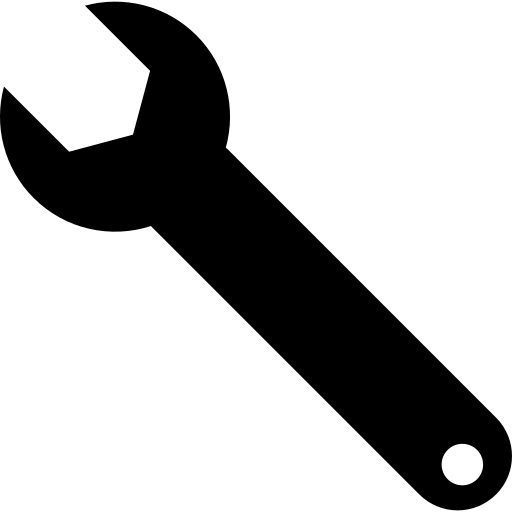
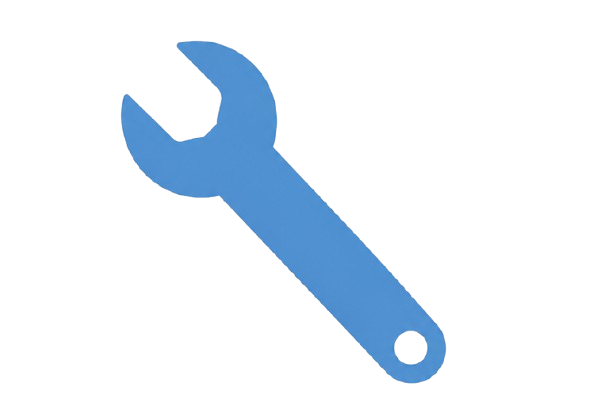
Refactoring payment flow check

diff --git a/apps/api/src/modules/payments/payments.service.ts b/apps/api/src/modules/payments/payments.service.ts
@@ -14,7 +14,6 @@ import { LedgerService } from "../wallet/ledger.service";
 import { PAYSTACK_PROVIDER } from "./payments.constants";
 import { PaystackProvider } from "./paystack/paystack.provider";
 import { ModuleRef } from "@nestjs/core";
-import { JobPaymentProcessorService } from "../job-payments/job-payment-processor.service";
 
 @Injectable()
 export class PaymentsService {
@@ -27,7 +26,6 @@ export class PaymentsService {
     private readonly ledgerService: LedgerService,
     private readonly notifications: NotificationsService,
     private readonly moduleRef: ModuleRef,
-    private readonly jobPaymentProcessor: JobPaymentProcessorService,
   ) {}
 
   async initializeDeposit(userId: string, amountMilliFec: number) {
@@ -373,12 +371,7 @@ if (
   result.paymentType === "JOB_PAYMENT" &&
   "jobPaymentId" in result &&
   typeof result.jobPaymentId === "string"
-) {
-  await this.jobPaymentProcessor.handleSuccessfulPayment(
-    result.jobPaymentId,
-  );
-}
-
+) 
 return result;
   }
 }

diff --git a/apps/api/src/modules/jobs/jobs.service.spec.ts b/apps/api/src/modules/jobs/jobs.service.spec.ts
@@ -7,6 +7,7 @@ import { WalletService } from "../wallet/wallet.service";
 import { NotificationsService } from "../notifications/notifications.service";
 import { PlatformWalletService } from "../wallet/platform-wallet.service";
 import { PrismaService } from "../../infra/prisma/prisma.service";
+import { JobPaymentsService } from "../job-payments/job-payments.service";
 
 describe("JobsService", () => {
   let service: JobsService;
@@ -40,6 +41,13 @@ describe("JobsService", () => {
             rejectCompletionRequest: jest.fn(async () => ({ ok: true, status: "REJECTED" })),
           },
         },
+        {
+  provide: JobPaymentsService,
+  useValue: {
+    createPostingPayment: jest.fn(),
+    createUrgentHirePayment: jest.fn(),
+  },
+},
         {
           provide: LedgerService,
           useValue: {

diff --git a/apps/api/src/modules/job-payments/job-payments.service.ts b/apps/api/src/modules/job-payments/job-payments.service.ts
@@ -1,7 +1,6 @@
 //path: apps/api/src/modules/job-payments/job-payments.service.ts
 import { Inject, Injectable } from "@nestjs/common";
 import { PrismaService } from "../../infra/prisma/prisma.service";
-import { PaymentsService } from "../payments/payments.service";
 import { NotificationsService } from "../notifications/notifications.service";
 import { PAYSTACK_PROVIDER } from "../payments/payments.constants";
 import { PaystackProvider } from "../payments/paystack/paystack.provider";
@@ -15,7 +14,6 @@ export class JobPaymentsService {
     private readonly paystack: PaystackProvider,
 
     private readonly prisma: PrismaService,
-    private readonly paymentsService: PaymentsService,
     private readonly notifications: NotificationsService,
   ) {}
 

diff --git a/apps/api/src/modules/payments/payments.module.ts b/apps/api/src/modules/payments/payments.module.ts
@@ -11,7 +11,6 @@ import { ReconciliationService } from "./reconciliation.service";
 import { ScheduleModule } from "@nestjs/schedule";
 import { PaystackWebhookController } from "./paystack/paystack.webhook.controller";
 import { AdminModule } from "../../admin/admin.module";
-import { JobPaymentsModule } from "../job-payments/job-payments.module";
 
 @Module({
  imports: [
@@ -20,7 +19,6 @@ import { JobPaymentsModule } from "../job-payments/job-payments.module";
   ScheduleModule,
   forwardRef(() => AdminModule),
   forwardRef(() => WalletModule),
-  forwardRef(() => JobPaymentsModule),
 ],
   controllers: [PaymentsController, PaystackWebhookController], // ✅ removed AdminFinanceService
   providers: [

diff --git a/apps/api/src/modules/jobs/jobs.service.ts b/apps/api/src/modules/jobs/jobs.service.ts
@@ -19,6 +19,7 @@ import { JobsRepo } from "./jobs.repo";
 import { JobPaymentsService } from "../job-payments/job-payments.service";
 
 
+
 @Injectable()
 export class JobsService {
   constructor(
@@ -29,7 +30,7 @@ export class JobsService {
   private readonly platformWalletService: PlatformWalletService,
   private readonly prisma: PrismaService,
   @Inject(forwardRef(() => JobPaymentsService))
-  private readonly jobPaymentsService: JobPaymentsService,
+  private readonly jobPaymentsService: JobPaymentsService
 ) {}
 
   private ensurePositiveInt(n: number, msg: string) {
